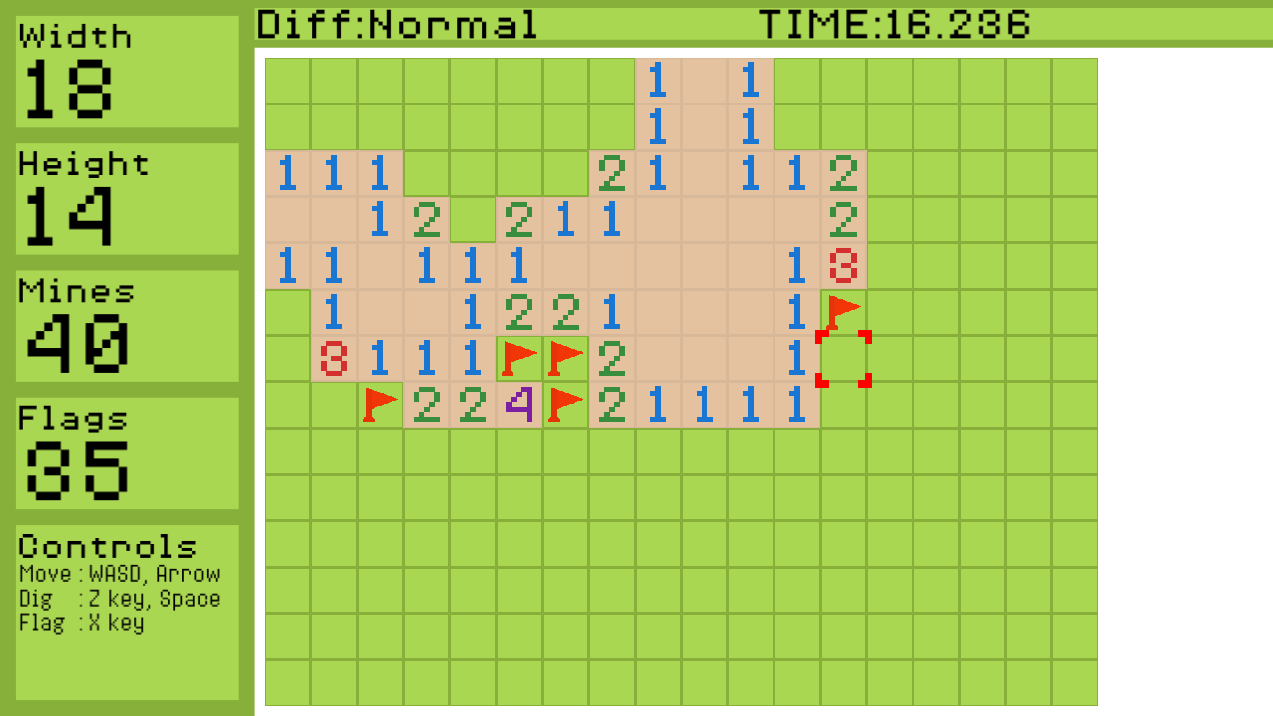
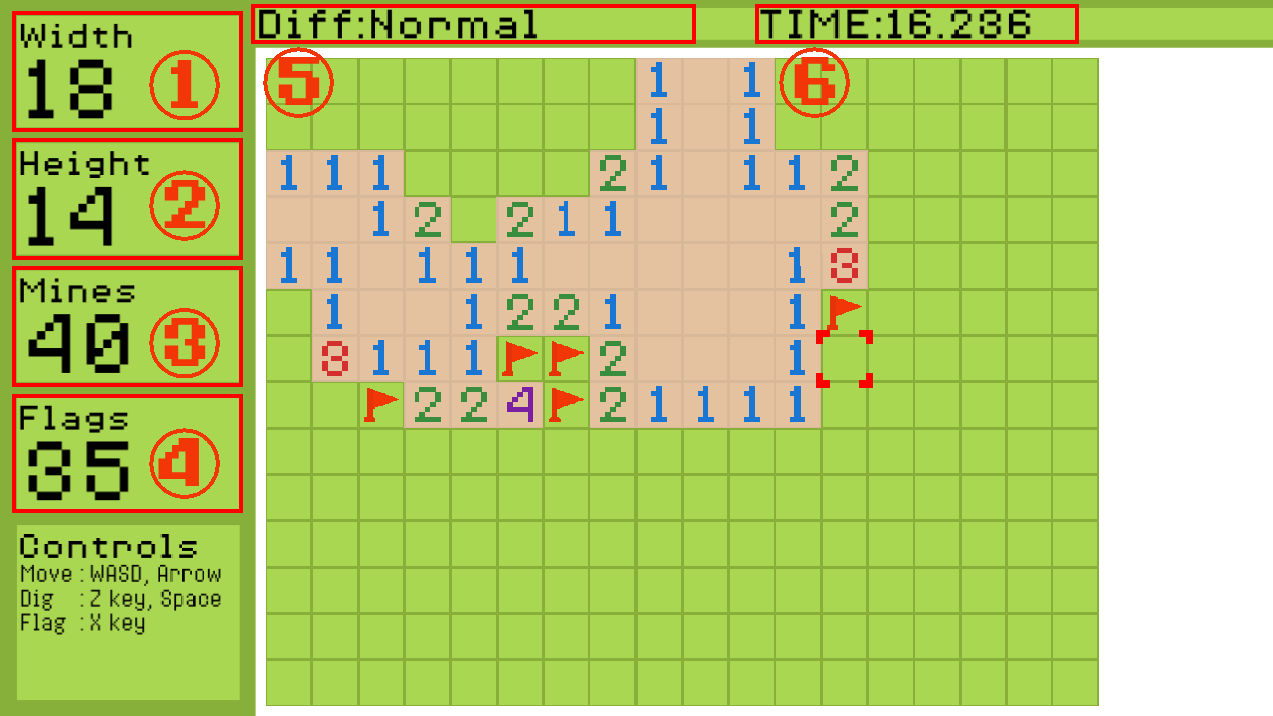
susscs

diff --git a/tutorial.html b/tutorial.html
@@ -7,17 +7,18 @@
     <script src="./scripts/script.js"></script>
 </head>
 <body>
-    <header><table border="1"><tr><th><a herf="./">Minesweeper</a></th></tr></table></header>
+    <header><table border="1"><tr><th><a herf="/">Minesweeper</a></th><th><a herf="/game">Play now!</a></th><th><a herf="/tutorial">How to play</a></th></tr></table></header>
     <h1>Minesweeper Tutorial</h1>
-    <p>Welcome to Minesweeper Tutorial!!!</p>
+    <p>Welcome to Minesweeper Tutorial</p>
     <hr>
     <h2>目次</h2>
         <ul>
-            <li><a href="#1">Controls</a></li>
+            <li><a href="#1">How to play</a></li>
             <li><a href="#2">Rules of Minesweeper</a></li>
             <li><a href="#3">the</a></li>
         </ul>
-    <h2><a name="1">Controls</a></h2>
+    <h2><a name="1">How to play</a></h2>
+        <h3>Controls</h3>
         <img src="./images/cursor.png">
         <p>This is cursor. You can control this and play the game.</p>
         <p>Now, Let's see the control.</p>
@@ -47,7 +48,20 @@
         </table>
         <p><b>Just these!! So easy!!!</b></p>
         <p style="font-size: small;color: gray;"><s>Auto Repeat? What is it???</s><br>Sorry, I didn't complete the Auto Repeat program. If you wanna move faster, please mash a button.</p>
-        <p></p>
+        <h3>UI</h3>
+        <div style="display: flex;flex-direction: row;">
+            <img src="./pic/3.png" border="1" style="width: 50%;">
+            <div style="display: block;">
+                <ol>
+                    <li>Width<br>Width of field.</li>
+                    <li>Height<br>Height of field.</li>
+                    <li>Mines<br>Total of Mines.</li>
+                    <li>Flags<br>How many flags are left?<br><b>If you wrong some flags, this number is not fact.</b></li>
+                    <li>Diff<br>This game's difficulty.</li>
+                    <li>Time<br>How long are you playing this level?</li>
+                </ol>
+            </div>
+        </div>\ 
     <hr>
     <h2><a name="2">Rules of Minesweeper</a></h2>
         <p>Minesweeper is so simple.</p>

diff --git a/index.html b/index.html
@@ -7,7 +7,9 @@
     <script src="./scripts/script.js"></script>
 </head>
 <body>
+    <header><table border="1"><tr><th><a herf="/">Minesweeper</a></th><th><a herf="/game">Play now!</a></th><th><a herf="/tutorial">How to play</a></th></tr></table></header>
     <h1>Minesweeper</h1>
     <p>Welcome to my Minesweeper!!!</p>
+    <button onclick="location.href='./game'">Play now!</button>
     <footer>AKI24957</footer>
 </body>
